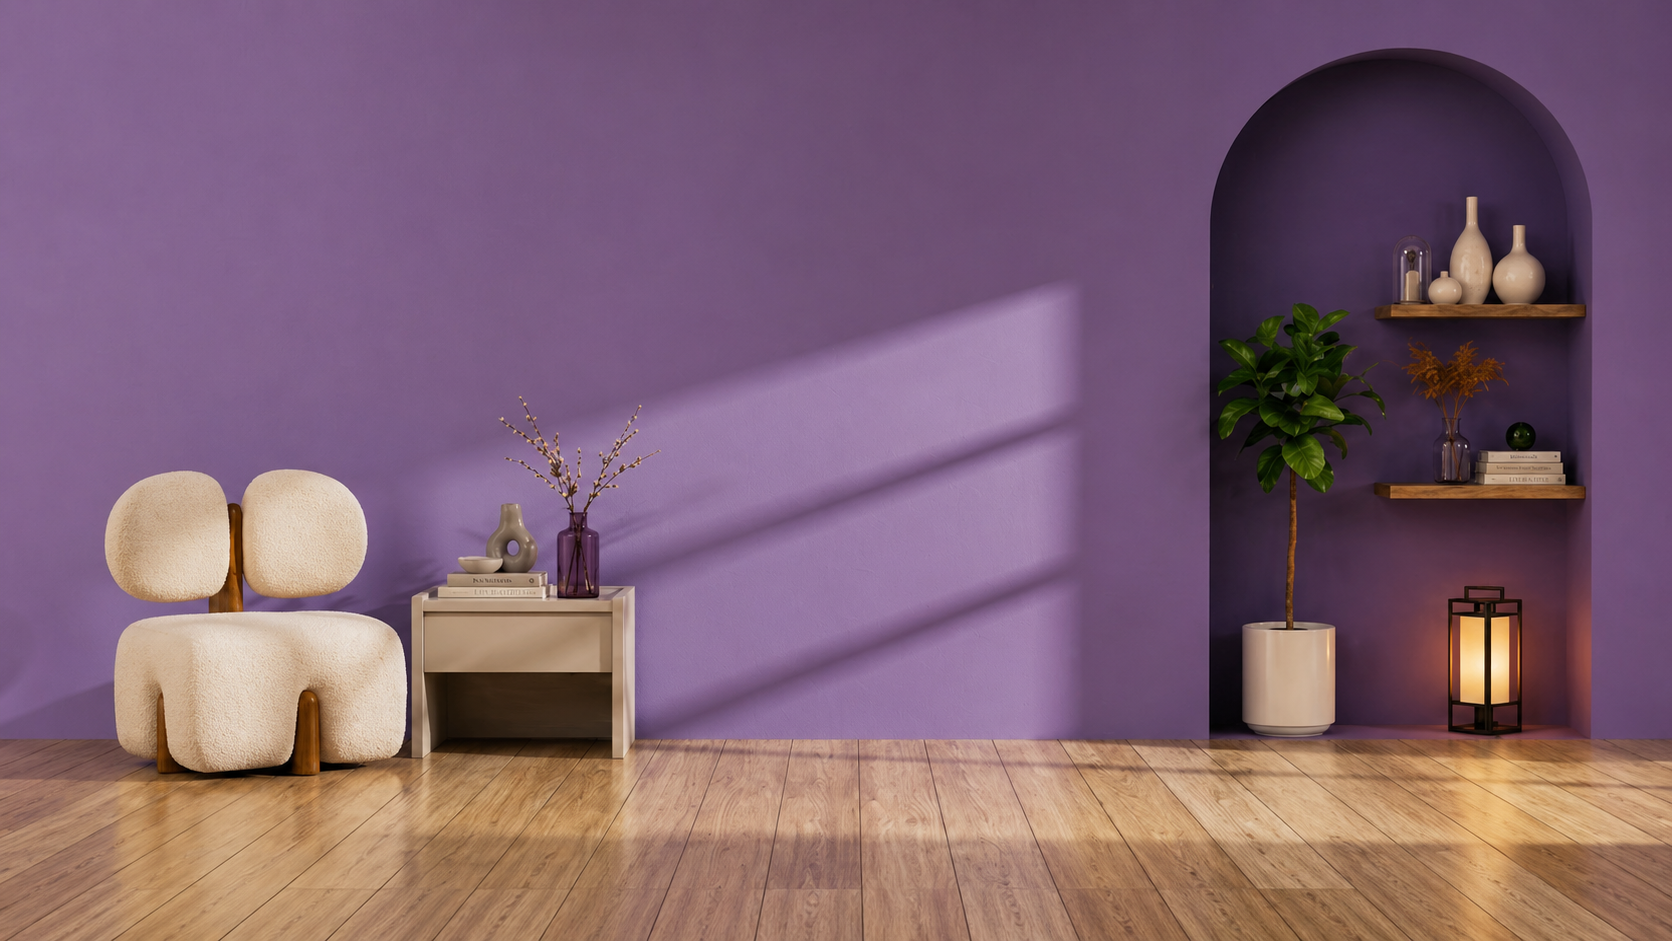
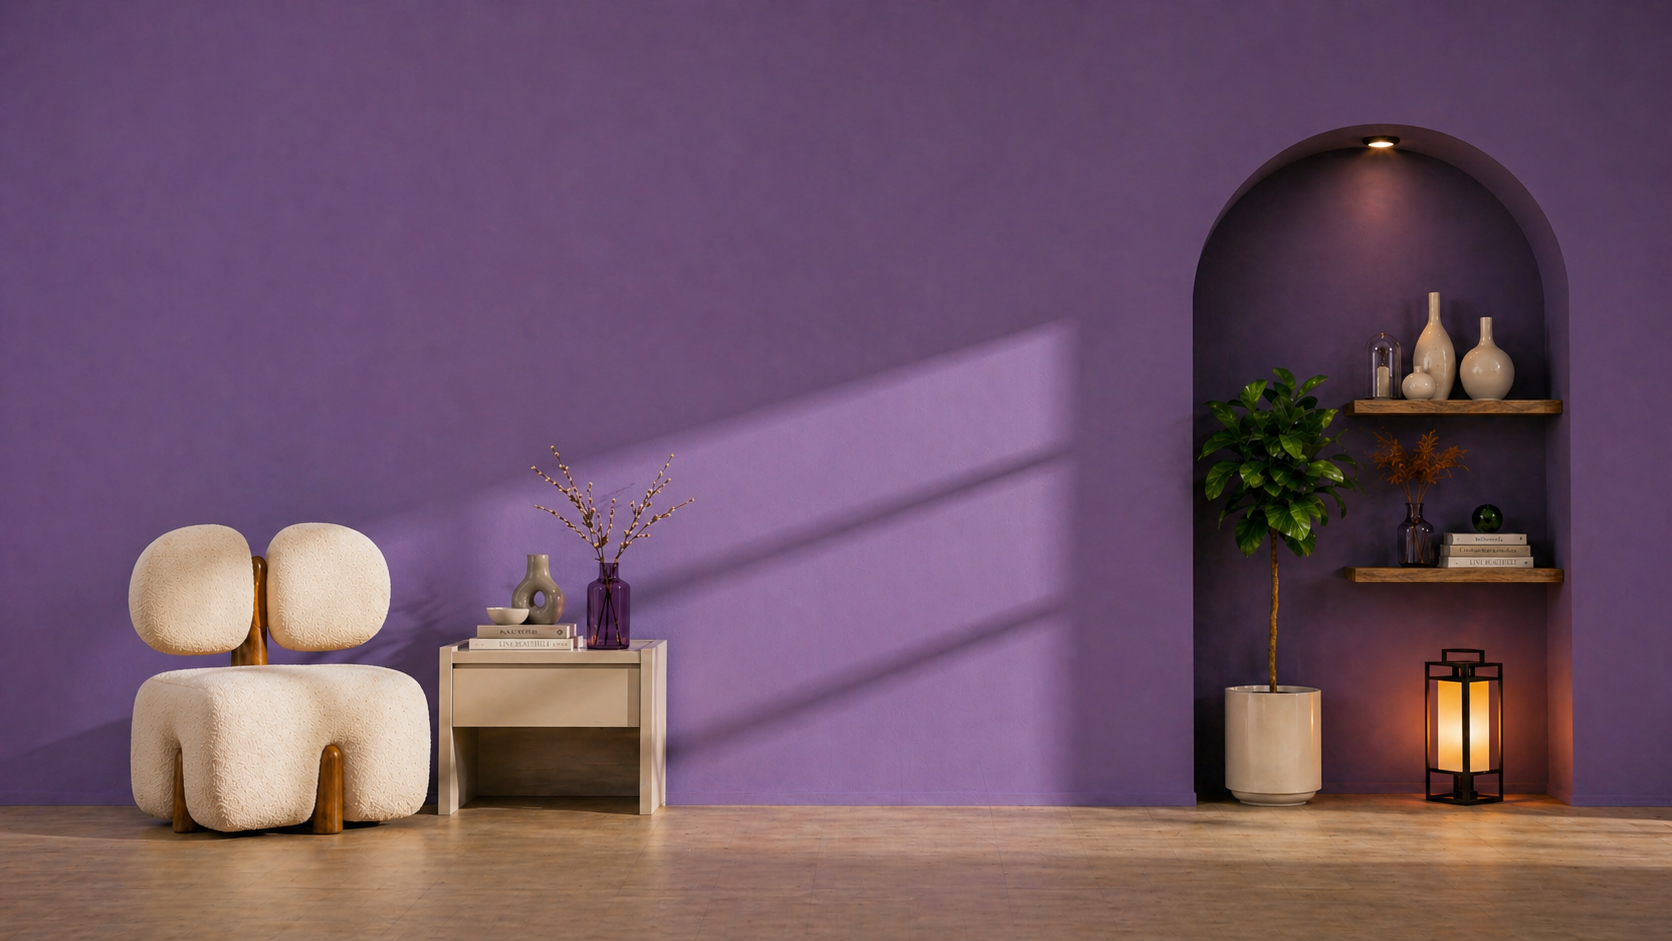
7.1

diff --git a/Component/Home/WhyChooseUs.tsx b/Component/Home/WhyChooseUs.tsx
@@ -9,8 +9,6 @@ type CardProps = {
   direction: "left" | "right" | "bottom";
   big?: boolean;
   tall?: boolean;
-  extraTitle?: string;
-  extraDesc?: string;
 };
 
 export default function WhyChooseUs() {
@@ -38,12 +36,10 @@ export default function WhyChooseUs() {
                 fontFamily: "'Cormorant Garamond', serif",
                 fontSize: "clamp(32px,4vw,48px)",
                 fontWeight: 800,
-                letterSpacing: "-0.015em",
               }}
             >
               <span className="text-[#55226D]">Why </span>
-              <span className="text-orange-400">Choose</span>
-              <span className="text-orange-400"> Us</span>
+              <span className="text-orange-400">Choose Us</span>
             </motion.h2>
 
             <motion.p
@@ -52,7 +48,8 @@ export default function WhyChooseUs() {
               transition={{ duration: 0.6 }}
               className="text-[#55226D] text-sm md:text-base leading-relaxed max-w-md md:ml-auto"
             >
-              We are a technology-driven company focused on delivering innovative smart home solutions.
+              We are a technology-driven company focused on delivering
+              innovative smart home solutions.
             </motion.p>
 
           </div>
@@ -74,21 +71,21 @@ export default function WhyChooseUs() {
               <Card
                 title="Experienced & Certified Team"
                 desc="Our skilled professionals ensure high-quality installation and reliable service."
-                img="https://images.unsplash.com/photo-1505691938895-1758d7feb511?q=80&w=800"
+                img="https://images.unsplash.com/photo-1505691938895-1758d7feb511?q=80&w=1200"
                 direction="left"
               />
 
               <Card
                 title="Latest Smart Home Technology"
                 desc="We use cutting-edge technology to provide advanced and efficient home automation solutions."
-                img="https://images.unsplash.com/photo-1616486338812-3dadae4b4ace?q=80&w=800"
+                img="https://images.unsplash.com/photo-1616486338812-3dadae4b4ace?q=80&w=1200"
                 direction="left"
               />
 
               <Card
                 title="Affordable Pricing"
                 desc="Get premium smart home solutions at competitive and budget-friendly prices."
-                img="https://images.unsplash.com/photo-1600585154340-be6161a56a0c?q=80&w=1200"
+                img="https://images.unsplash.com/photo-1600585154340-be6161a56a0c?q=80&w=1600"
                 direction="bottom"
                 big
               />
@@ -98,7 +95,7 @@ export default function WhyChooseUs() {
             <Card
               title="24/7 Customer Support"
               desc="Our support team is available anytime to assist you with your smart home needs."
-              img="https://images.unsplash.com/photo-1618221195710-dd6b41faaea6?q=80&w=1200"
+              img="https://images.unsplash.com/photo-1618221195710-dd6b41faaea6?q=80&w=1600"
               direction="right"
               tall
             />
@@ -134,40 +131,28 @@ function Card({
       transition={{ duration: 0.7, ease: "easeOut" }}
       className={`relative overflow-hidden group ${
         big ? "sm:col-span-2 h-[260px]" : ""
-      } ${tall ? "min-h-[420px]" : "h-[200px]"}`}
-      style={{ borderRadius: "3px" }}
+      } ${tall ? "min-h-[420px]" : "h-[220px]"}`}
+      style={{ borderRadius: "4px" }}
     >
+      {/* IMAGE */}
       <img
         src={img}
-        className="w-full h-full object-cover transition duration-500 group-hover:scale-105"
+        alt={title}
+        className="w-full h-full object-cover transition duration-700 group-hover:scale-105"
       />
 
-      {/* BASE OVERLAY */}
-    <div className="absolute inset-0 
-                bg-gradient-to-t 
-                from-black/40 
-                via-black/10 
-                to-transparent"></div>
+      {/* OVERLAY */}
+      <div className="absolute inset-0 bg-gradient-to-t from-black/70 via-black/20 to-transparent"></div>
 
-      {/* HOVER BLACK OVERLAY */}
-     <div className="absolute inset-0 
-                bg-black/30 
-                opacity-0 
-                group-hover:opacity-100 
-                transition duration-500"></div>
-      {/* TITLE */}
-      <h3 className="absolute bottom-5 left-5 text-white text-lg font-semibold z-10 drop-shadow-md
-                     transition-all duration-300 group-hover:opacity-0 group-hover:translate-y-4">
-        {title}
-      </h3>
+      {/* TITLE FIXED AT BOTTOM */}
+      <div className="absolute bottom-0 left-0 right-0 z-20 p-5 sm:p-6">
 
-      {/* HOVER CONTENT */}
-      <div className="absolute inset-0 flex flex-col justify-end p-5 text-white z-20
-                      opacity-0 translate-y-full
-                      group-hover:opacity-100 group-hover:translate-y-0
-                      transition-all duration-500">
+        <h3 className="text-white text-lg sm:text-xl font-semibold drop-shadow-md">
+          {title}
+        </h3>
 
-        <p className="text-sm leading-relaxed drop-shadow-md">
+        {/* DESCRIPTION ON HOVER */}
+        <p className="text-white/90 text-sm leading-relaxed mt-2 opacity-0 max-h-0 overflow-hidden group-hover:opacity-100 group-hover:max-h-24 transition-all duration-500">
           {desc}
         </p>
 

diff --git a/Component/Contact/ContactHero.tsx b/Component/Contact/ContactHero.tsx
@@ -10,14 +10,14 @@ export default function ContactHero() {
       if (!el) return;
 
       el.style.opacity = "0";
-      el.style.transform =
-        i % 2 === 0 ? "translateX(-35px)" : "translateX(35px)";
-      el.style.transition = `all 0.7s ease ${i * 120}ms`;
+      el.style.transform = "translateX(-45px)";
+      el.style.transition = `all 0.8s ease ${i * 140}ms`;
     });
 
     setTimeout(() => {
       itemsRef.current.forEach((el) => {
         if (!el) return;
+
         el.style.opacity = "1";
         el.style.transform = "translateX(0)";
       });
@@ -34,20 +34,21 @@ export default function ContactHero() {
       `}</style>
 
       <section
-        className="hero-font w-full h-[500px] bg-cover bg-center flex items-center"
-        style={{ backgroundImage: "url('hero4.png')" }}
+        className="hero-font w-full h-[420px] sm:h-[470px] md:h-[500px] bg-cover bg-center flex items-start pt-12 sm:pt-16 md:pt-20"
+        style={{ backgroundImage: "url('hero5.png')" }}
       >
         <div className="w-full">
-          <div className="max-w-[1250px] mx-auto px-6">
+          <div className="max-w-[1250px] mx-auto px-5 sm:px-8 md:px-8 md:-mt-8">
 
-            <div className="max-w-[520px] text-white space-y-5 -mt-2 md:-mt-20">
+            {/* Content */}
+            <div className="max-w-[620px] text-white space-y-4">
 
               {/* Badge */}
               <div
                 ref={(el) => {
                   if (el) itemsRef.current[0] = el;
                 }}
-                className="flex items-center gap-2 text-[10px] font-semibold tracking-[0.22em] uppercase text-purple-100"
+                className="flex items-center gap-2 text-[10px] sm:text-[11px] font-semibold tracking-[0.24em] uppercase text-purple-100"
               >
                 <span className="h-[1.5px] w-5 bg-purple-200" />
                 Contact Us
@@ -58,21 +59,21 @@ export default function ContactHero() {
                 ref={(el) => {
                   if (el) itemsRef.current[1] = el;
                 }}
-                className="hero-heading font-extrabold tracking-tight text-2xl sm:text-4xl md:text-5xl leading-[1.15]"
+                className="hero-heading font-extrabold tracking-tight text-[28px] leading-[1.08] sm:text-[44px] md:text-[56px]"
               >
-                Let’s Start Your <br />
-                Smart Living Journey
+                Let’s Create Your{" "}
+                <span className="text-orange-400">Dream</span>
               </h1>
 
-              {/* Text */}
+              {/* Description */}
               <p
                 ref={(el) => {
                   if (el) itemsRef.current[2] = el;
                 }}
-                className="text-xs sm:text-sm md:text-base text-white/90 max-w-[380px] leading-relaxed"
+                className="text-[13px] sm:text-base md:text-lg text-white/90 max-w-[560px] leading-relaxed"
               >
-                Get in touch with our team for smart home solutions,
-                interior ideas, support, and project consultations.
+                Connect with our experts for smart home ideas,
+interior guidance, and seamless support.
               </p>
 
             </div>